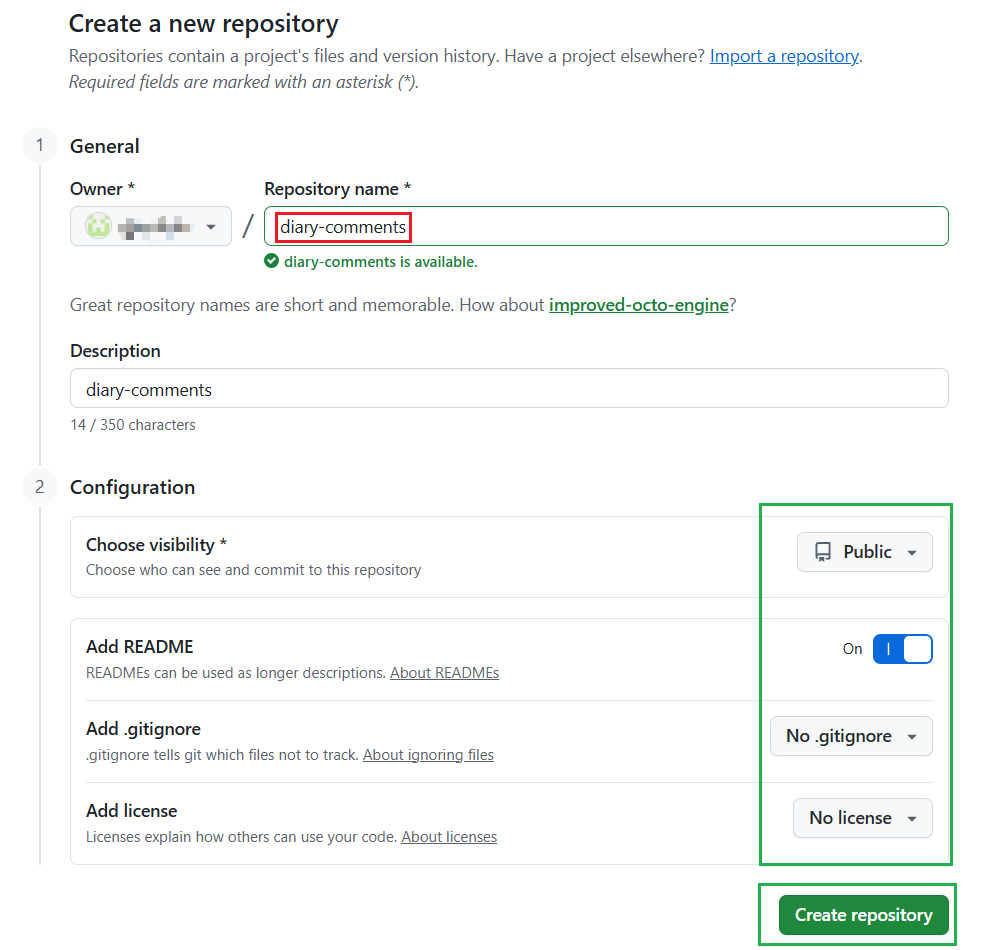
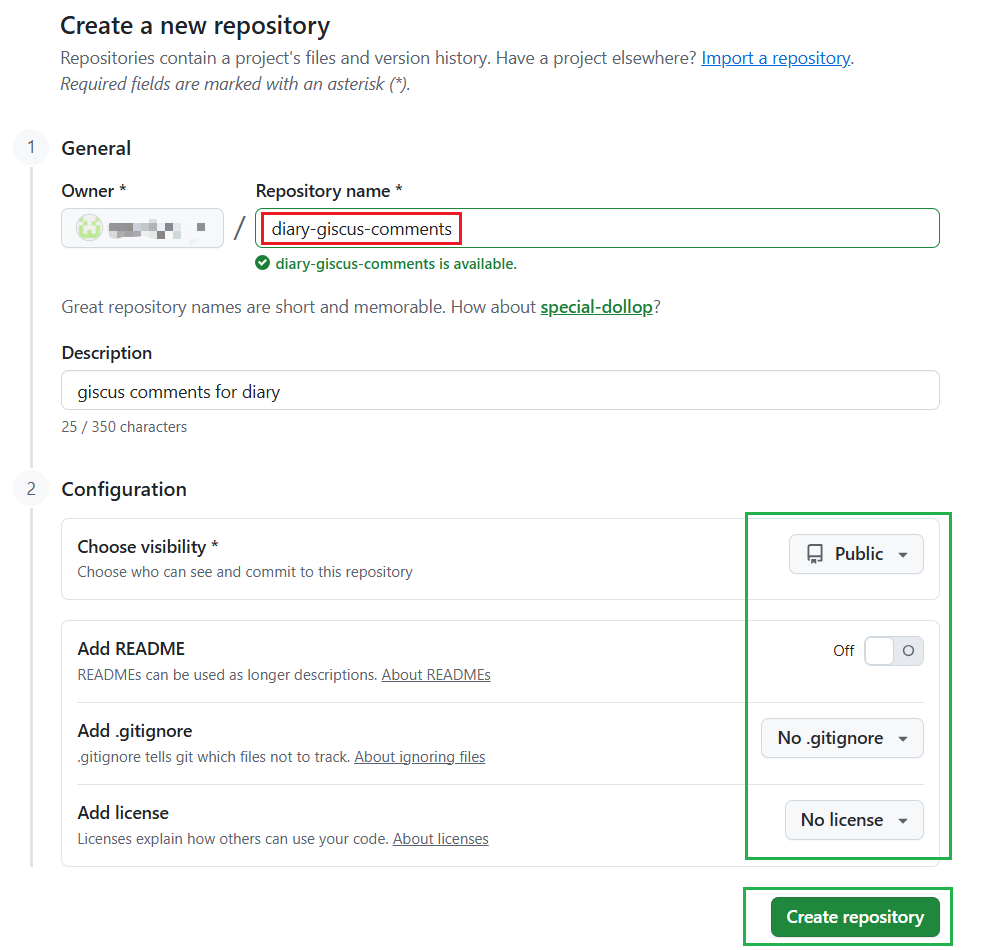
20251213

Changed region(s): [[0.031, 0.1526, 0.744, 0.9158], [0.744, 0.5189, 0.961, 1.0], [0.062, 0.0, 0.868, 0.0916]]

diff --git a/source/sphinx/项目部署.rst b/source/sphinx/项目部署.rst
@@ -26,19 +26,37 @@ GitHub 配置
 .. figure:: /_static/1.png
 
 
-创建评论仓库 diary-comments:
+创建评论仓库 diary-giscus-comments:
 
 .. figure:: /_static/2.png
 
 
-开启 diary-comments Discussions 
+开启 diary-giscus-comments 仓库 Discussions 功能:
 
-.. figure:: /_static/3.png
+进入仓库的 Setting 页面
 
 .. figure:: /_static/4.png
 
+访问 `giscus GitHub App <https://github.com/apps/giscus>`_  页面安装 giscus app.
 
-配置 giscus
-------------
+.. figure:: /_static/55.png
+
+.. figure:: /_static/66.png
+
+.. figure:: /_static/77.png
+
+访问 `giscus <https://giscus.app/zh-CN>`_ 网站生成 giscus 配置。
+
+配置语言和仓库
+
+.. figure:: /_static/88.png
+
+选择分类
+
+Discussion 分类
+
+.. figure:: /_static/99.png
+
+.. figure:: /_static/aa.png
 
 
